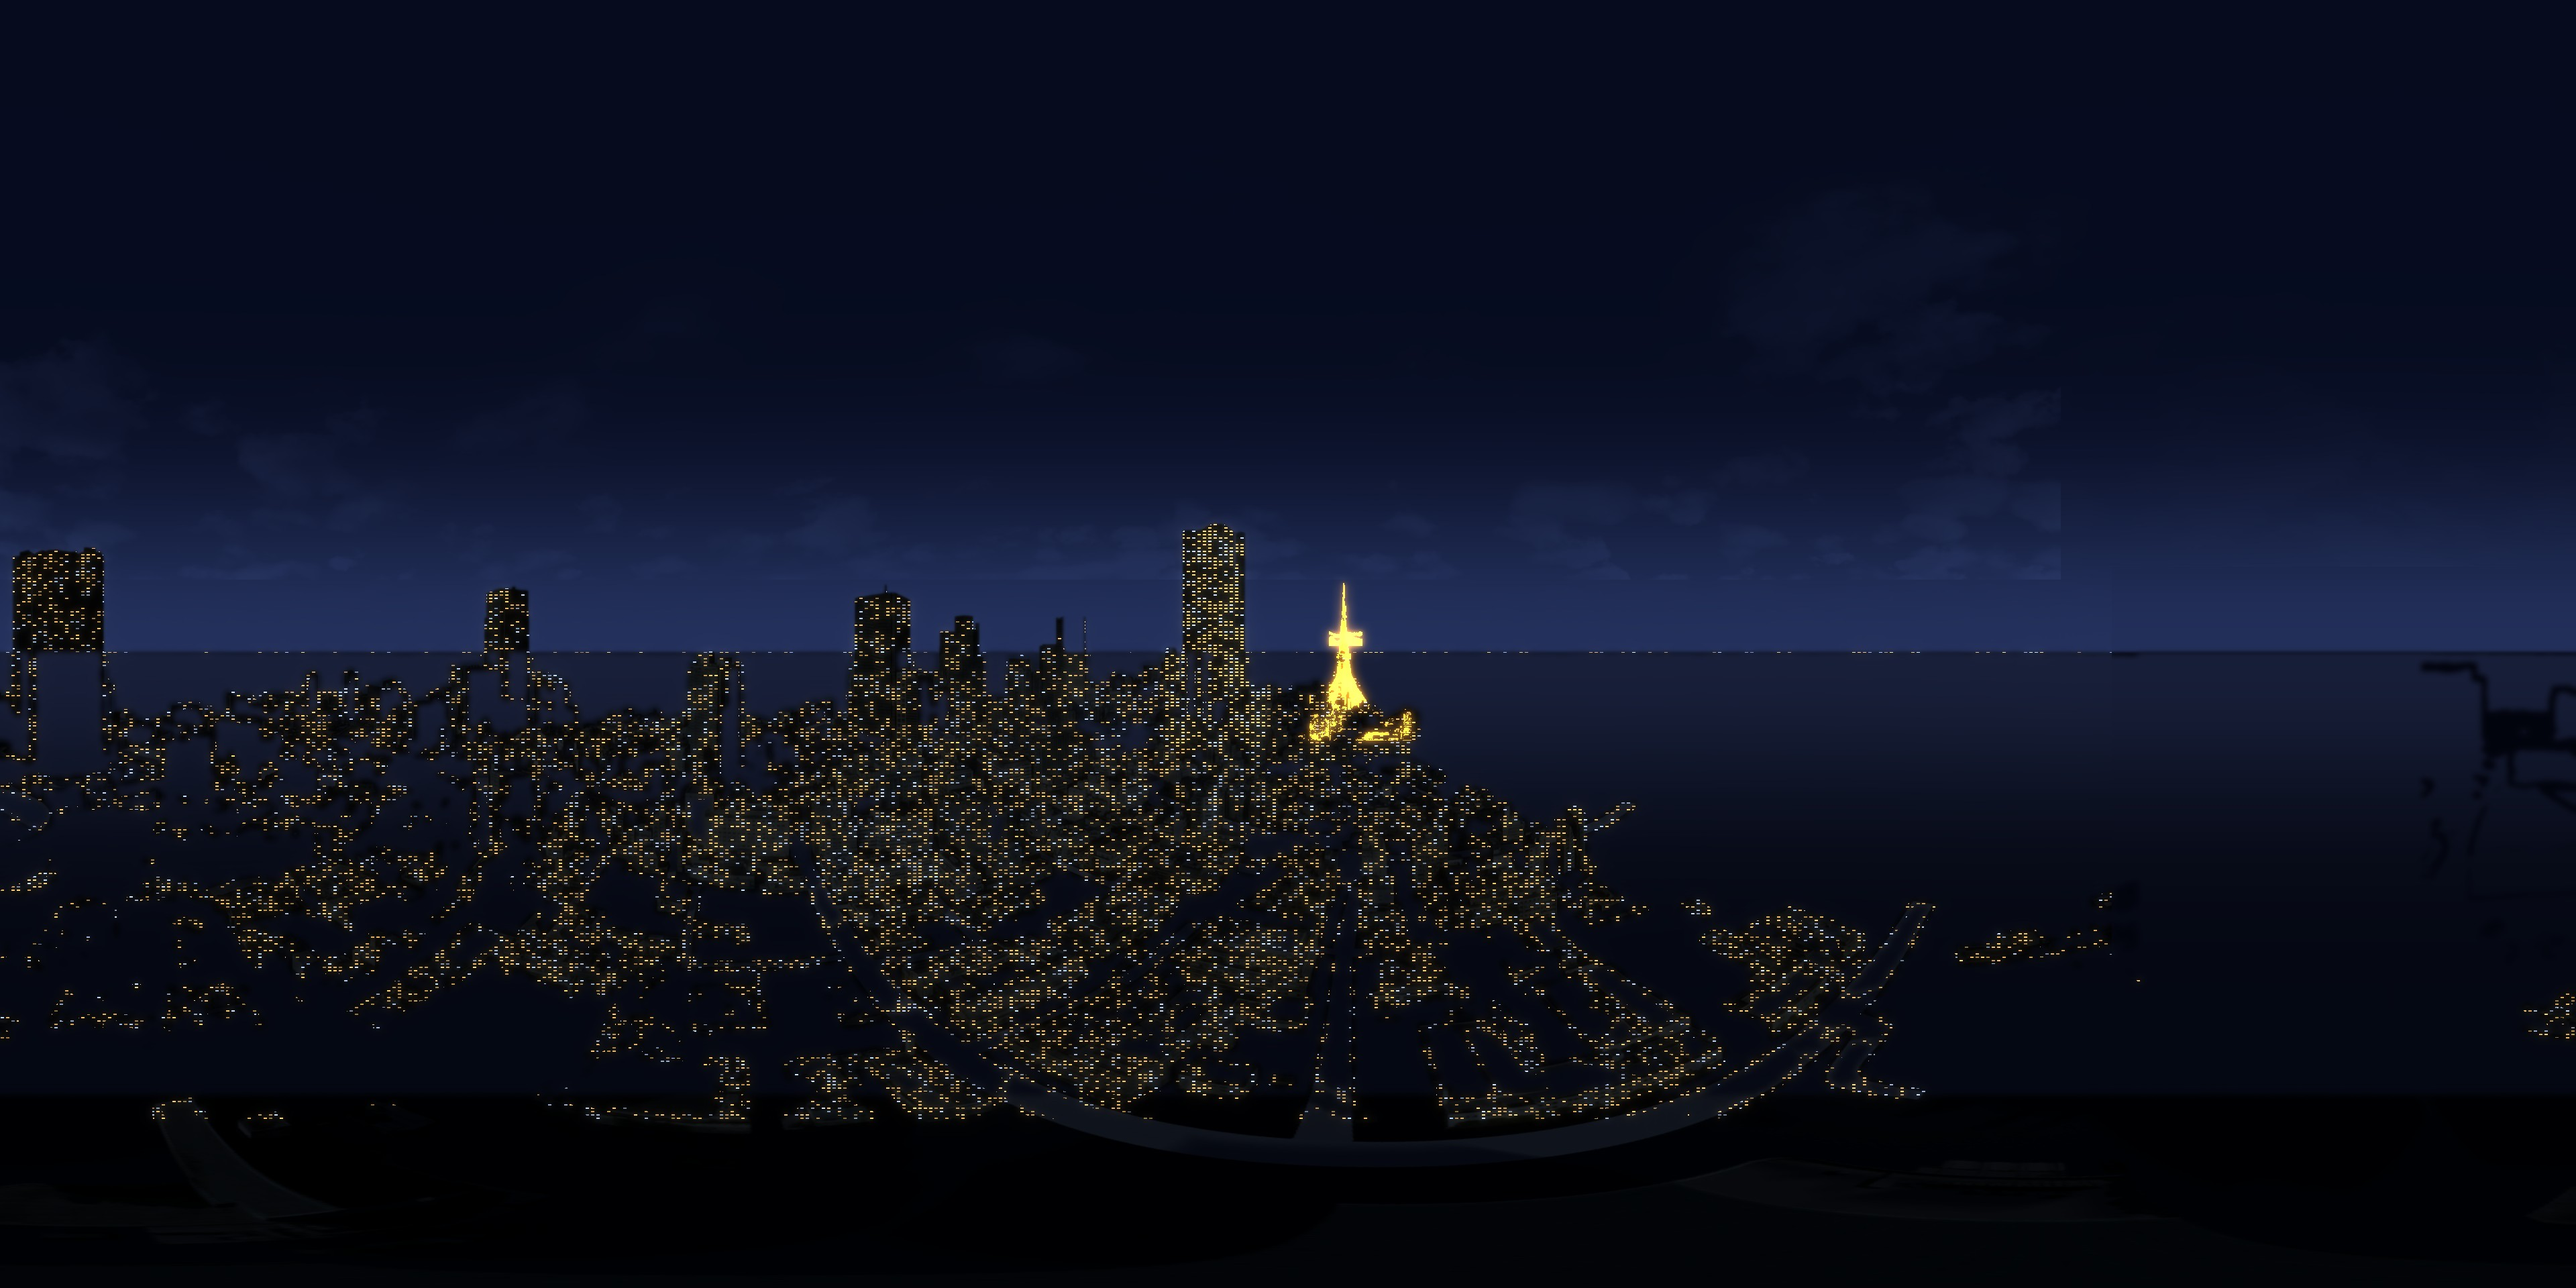
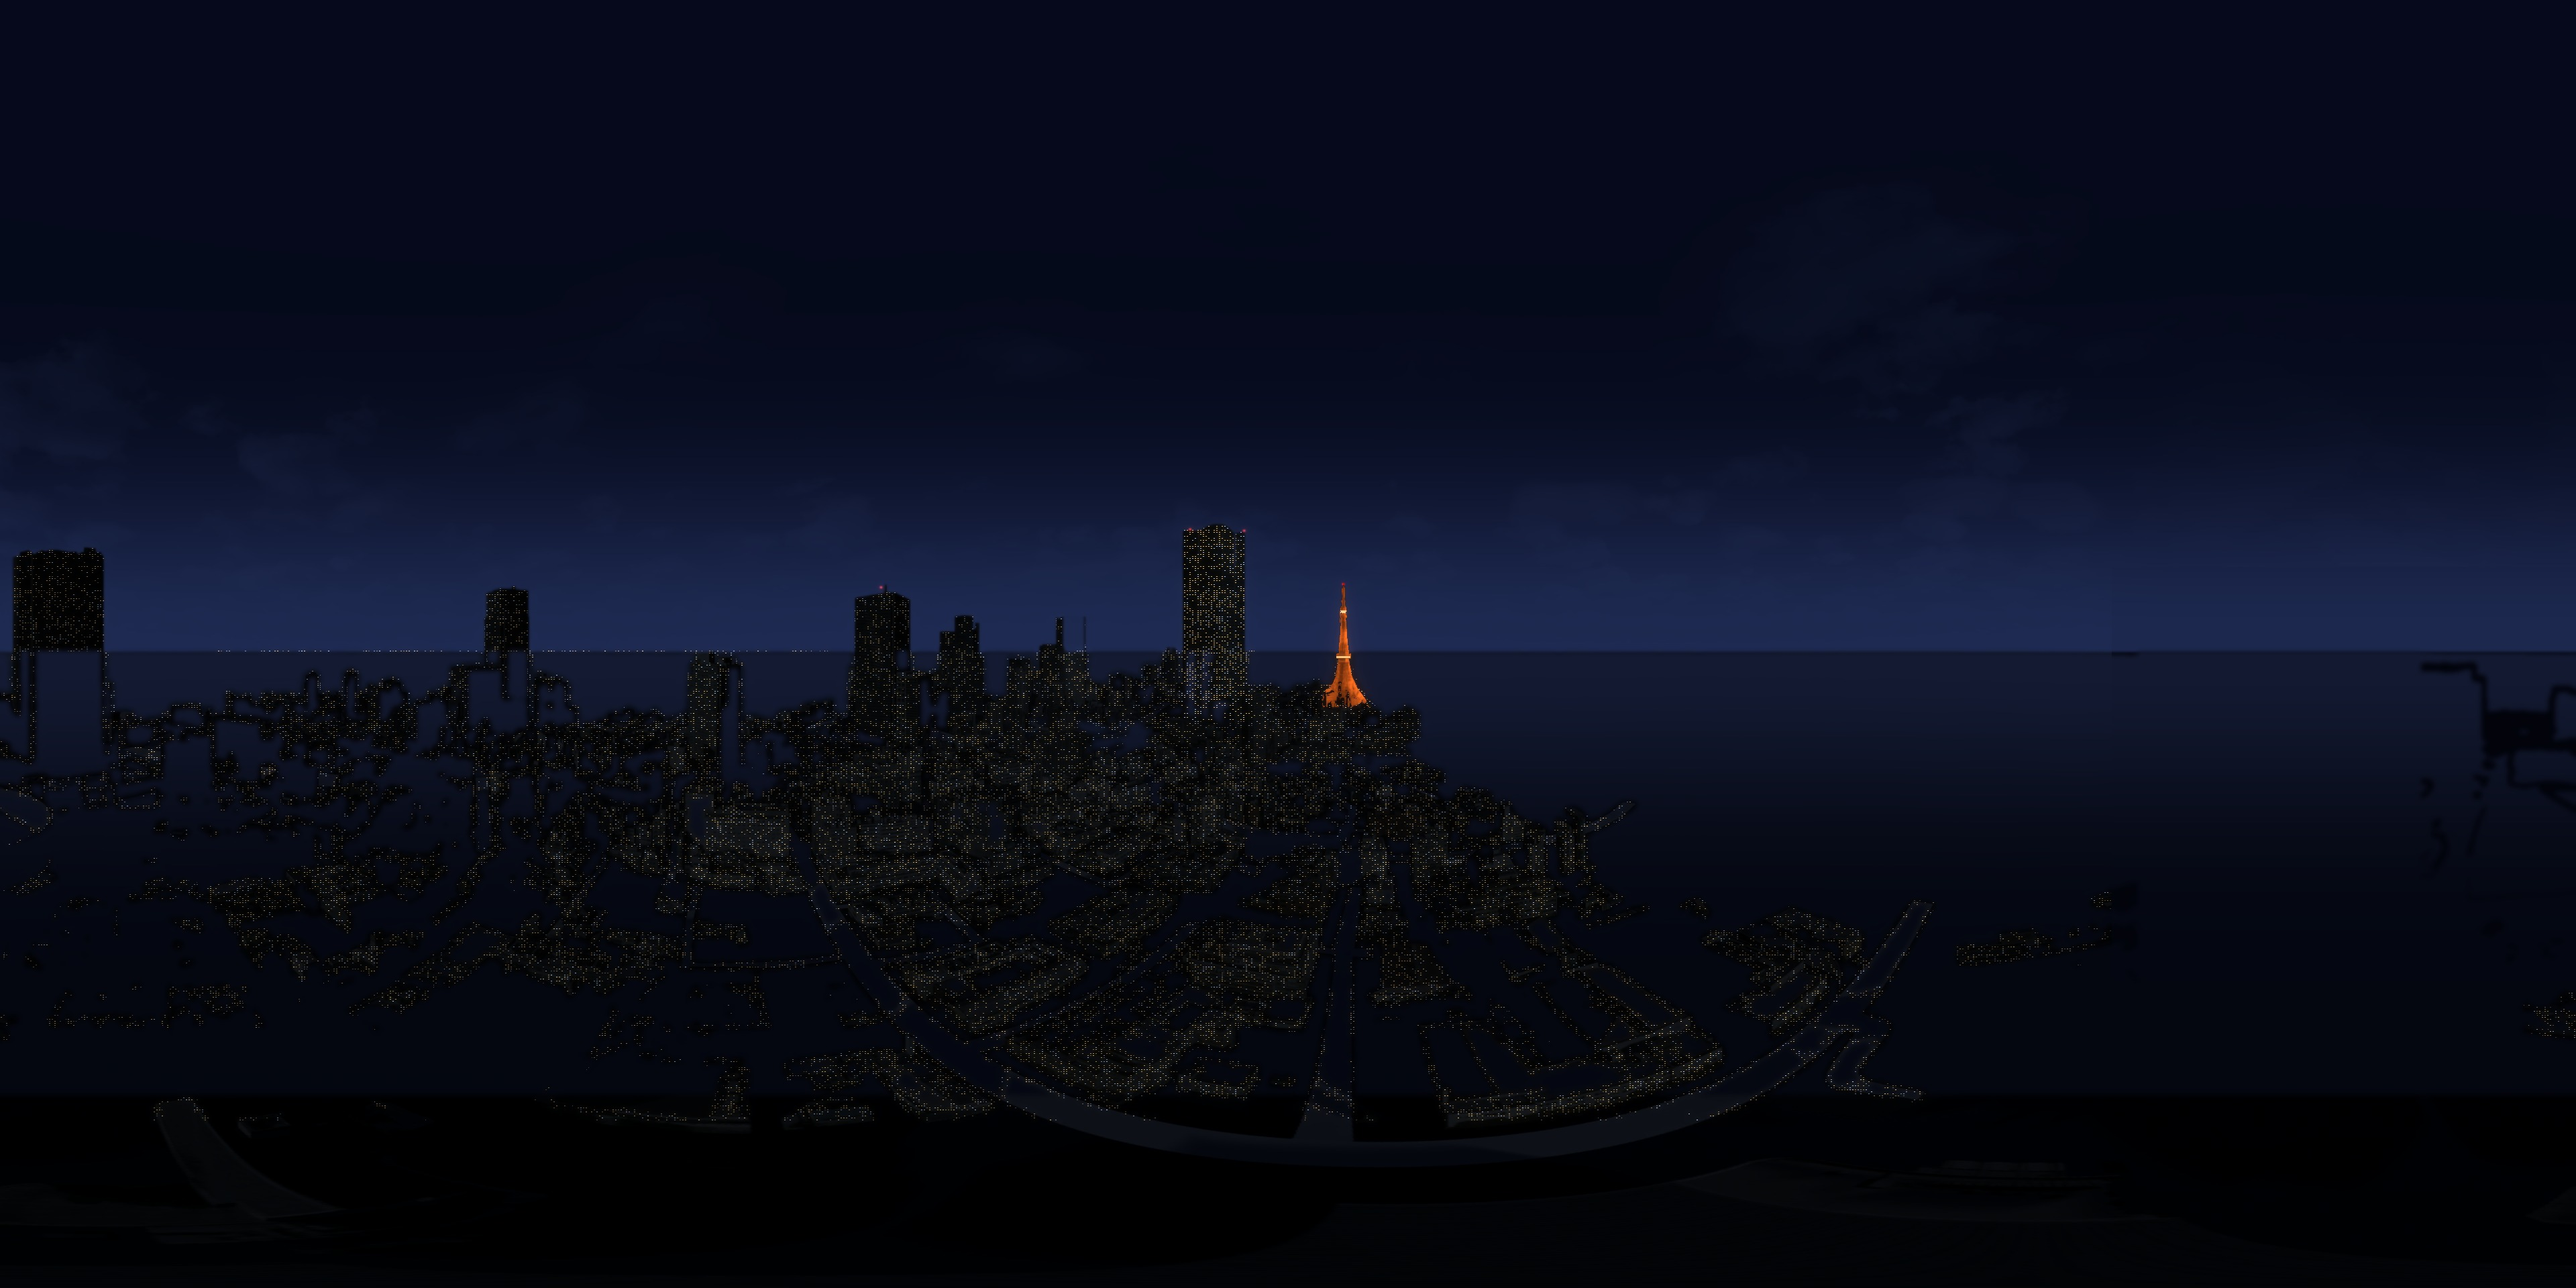
Fix Tokyo Tower night illumination: natural Landmark Orange truss detail, crisp decks & fine skyline windows

diff --git a/index.html b/index.html
@@ -2143,7 +2143,7 @@
           pts: [1.50, 1.40, 1.30, 1.50, 0.80]
         },
         night: {
-          url: "assets/skybox_minato_41f_night.jpg?v=4",
+          url: "assets/skybox_minato_41f_night.jpg?v=5",
           label: "東京夜景",
           exposure: 0.86,
           hemiSky: 0x2a3f72, hemiGnd: 0x16120e, hemiInt: 0.30,
